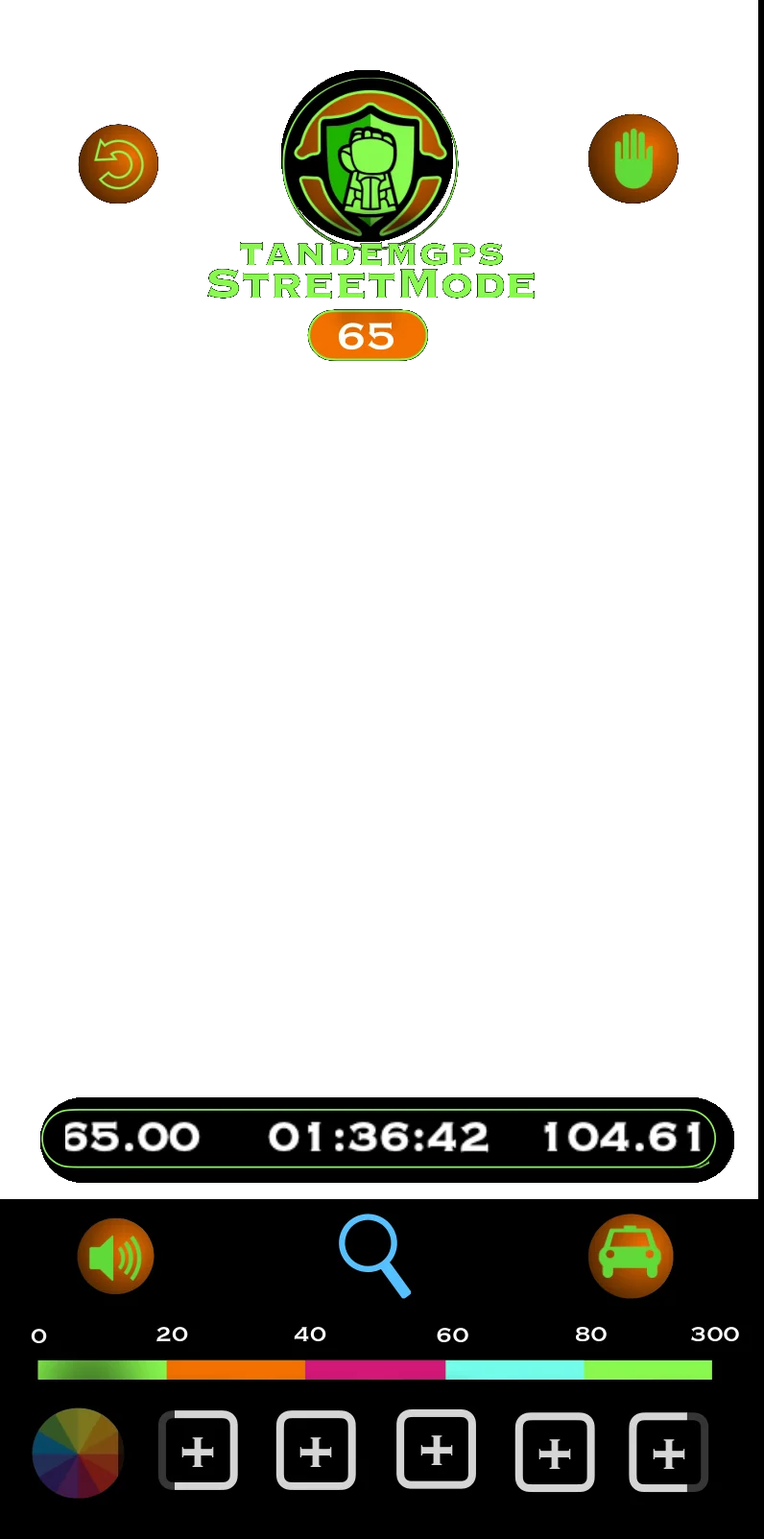
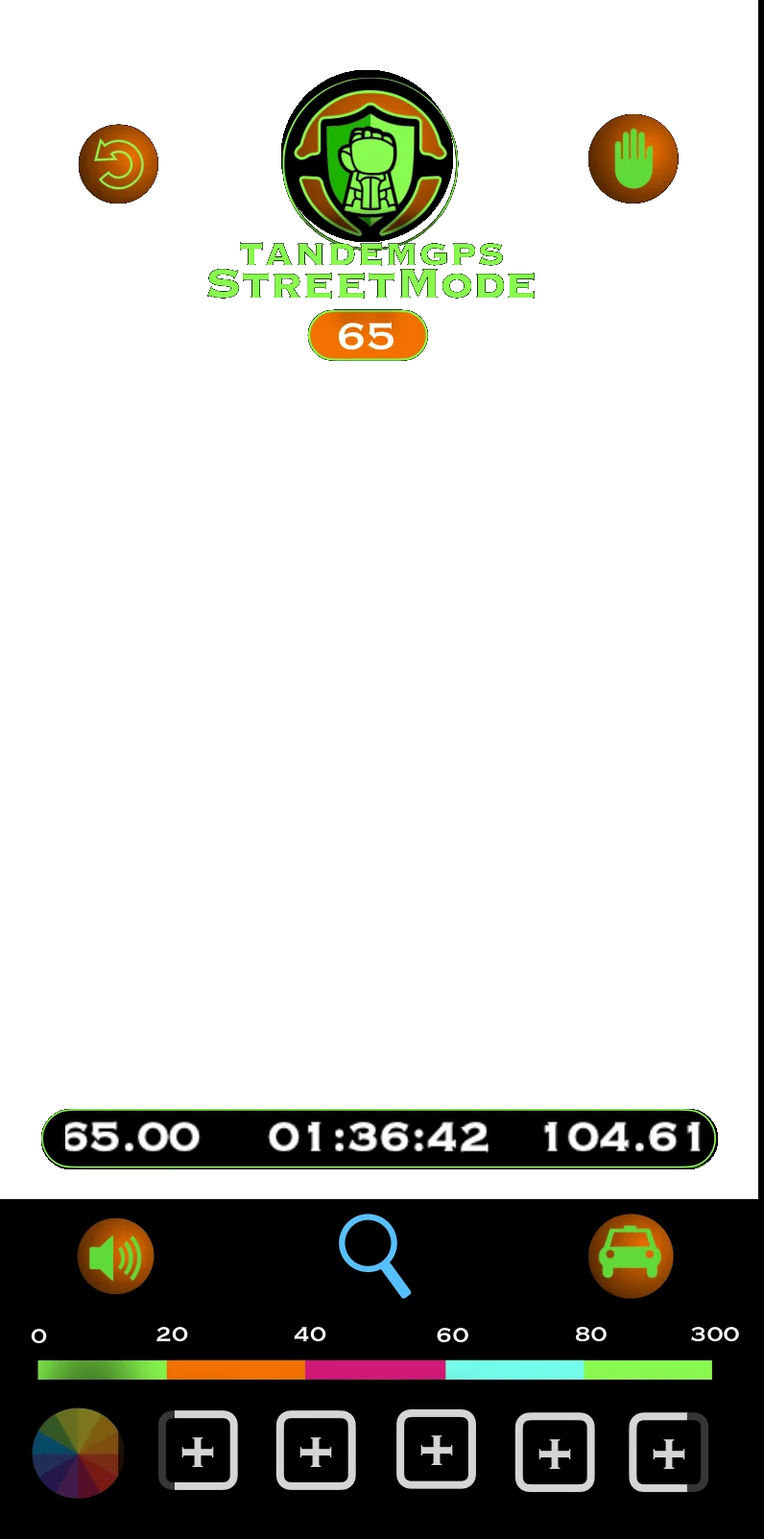
Fix speed detection when GPS reports zero speed
Fall back to distance over recent fixes, with a floor against parked-bike
jitter, and zero the speed when fixes stop. Match the mini-dash to the
ring in the art. Emulator check now walks every reachable screen.

Claude-Session: https://claude.ai/code/session_01DxvpB6HwotHwZqY6yYa5Ty

Changed region(s): [[0.0603, 0.6862, 0.9648, 0.7798]]

diff --git a/src/art.js b/src/art.js
@@ -327,6 +327,7 @@ export const MAN={
     {t:"A r o u n d  t h e  l a k e",x:90.5,y:109.3,w:207.9,h:20.2,c:"#88FA4E",s:17.0,img:require('../assets/t_maplink_motion_13.png')},
   ]},
 };
-export const MAPRECTS={"trackmode": [0.0, 196.0, 397.5, 381.0], "maplink_motion": [2.0, 193.5, 393.5, 359.5], "maplink_default": [0.0, 213.5, 398.0, 365.0], "streetmode": [0.0, 0.0, 395.0, 624.5]};
 export const CARDS=["#343434", "#2B2B2B", "#222222", "#191919", "#0F0F0F", "#464646"];
 export const LSS_GRID=[["","","","","","","","","","","","","","#141414","#161616","#151515","#181818","#181818","#191919","#1B1B1B","#1C1C1C","#1C1C1C","#1E1E1E","#1E1E1E","#1F1F1F","#1F1F1F","#212121","#222222","#222222","#232323","#252525","#262626","#262626","#282828","#292929","#292929","#2B2B2B","#2D2D2D","#2F2F2F","#303030","#323232","#343434","#363636","#373737","#3A3A3A","#3A3A3A","#3D3D3D","#3E3E3E","#3F3F3F","#414141","#424242","#444444","#464646","#464646","#484848","#494949","#4A4A4A","#4C4C4C","#4D4D4D","#15260B","#12240B","#12220A","#11210A",""],["","","","","","","#88F94E","","","","","","","","","","","#141414","#161616","#161616","#171717","#171717","#191919","#191919","#191919","#1B1B1B","#1B1B1B","#1C1C1C","#1C1C1C","#1D1D1D","#1E1E1E","#1F1F1F","#202020","#212121","#232323","#232323","#252525","#262626","#282828","#292929","#2B2B2B","#2D2D2D","#2F2F2F","#313131","#333333","#353535","#383838","#3A3A3A","#3B3B3B","#3D3D3D","#3E3E3E","#3F3F3F","#414141","#434343","#444444","#464646","#474747","#4B5048","#162A0D","#15290C","#15270B","#13240B","#12240B","#11210A"],["","","","","","#12220A","#13240B","#15270B","#15280C","#16290D","#3C7022","#52992E","#539A2F","#549A30","#539930","#52992F","#51962F","#50942E","#4F922D","#4E8E2C","#4C8B2B","#49872A","#488429","#468127","#447E27","#437C27","#427A25","#427824","#417724","#407624","#407624","#407624","#407624","#407624","#407725","#417825","#417925","#427A26","#437B25","#447D26","#468027","#478228","#498629","#4A892B","#4C8C2C","#4E8F2C","#50922D","#51952E","#52982F","#549930","#559B30","#549C31","#559D30","#468227","#213D13","#1B3210","#1A300E","#192E0D","#182D0D","#172B0D","#16290C","#15270B","#14250B","#13240B"],["","","","#11210A","#12240A","#14250B","#15270B","#16290C","#172B0D","#182D0D","#182D0C","#192F0F","#1A310F","#1B310F","#1A320F","#1C320F","#1C3310","#1B3210","#1A310F","#1B310F","#1A300E","#1A2F0F","#192F0E","#192F0D","#182D0D","#182D0E","#182D0C","#182C0E","#172C0E","#182D0E","#172D0E","#182D0E","#182D0E","#182D0E","#182D0E","#192D0E","#192D0E","#192E0E","#192F0E","#1A2F0E","#192F0F","#1A300F","#1A310F","#1B3310","#1C340E","#1D350F","#1C3610","#1D3711","#1D3711","#1E3811","#1E3711","#1E3711","#1E3711","#1C3611","#1B340F","#1B330F","#1B3210","#1B3110","#1A2F0E","#182D0D","#172B0D","#172A0D","#15280C","#14260B"],["","","#12210A","#12240B","#14250B","#15270B","#16290C","#172B0D","#172C0C","#182E0C","#1A300F","#1A310F","#1B320F","#1C330F","#1A3210","#1B3210","#1A310F","#1A310E","#19300F","#192F0F","#192D0D","#182D0C","#182D0E","#172B0E","#172A0D","#162B0D","#172A0D","#322B31","#60316B","#6F327D","#7E348F","#853186","#902971","#9E2058","#A51C4E","#58242B","#172C0D","#172C0D","#172D0D","#182D0D","#182D0D","#182E0E","#192E0E","#1A2F0E","#19300F","#1A310F","#1B3310","#1C340F","#1D350F","#1D3611","#1D3712","#1E3811","#1E3811","#1E3811","#1E3711","#1D350F","#1B340F","#1C3310","#1B3210","#1A300E","#182D0D","#172C0D","#172A0D","#16290C"],["","#12210A","#12240B","#14250B","#15270B","#16290C","#172B0D","#172C0C","#182E0D","#1A300F","#1B310F","#1A320F","#1B320E","#1B3310","#1A320F","#1A310F","#192F0E","#192E0E","#182D0D","#182C0C","#172B0C","#162A0D","#462E4B","#7A3491","#7D3494","#7D3594","#7D3593","#7D3494","#7D3593","#7E3594","#803594","#86318B","#932874","#A01F59","#A71B4F","#A71B4E","#A71C4E","#A71C4E","#A81D4F","#A71E4F","#A61E4F","#A31E4E","#182D0E","#182D0D","#182E0D","#192E0E","#1A2F0E","#1A310F","#1B3210","#1C340E","#1D360F","#1D3711","#1E3811","#1E3810","#1E3811","#1E3711","#1C360F","#1B340F","#1B330F","#1B3210","#1A300E","#192E0D","#182C0D","#172A0D"],["#12210A","#12240B","#14250B","#15280B","#172A0D","#172B0D","#172C0C","#192E0D","#1A310F","#1B320F","#1A330F","#1A3210","#1B320F","#19310F","#1A300E","#182E0F","#182D0D","#182C0C","#172B0D","#17290E","#7B378F","#7D3692","#7E3493","#7E3294","#7E3396","#803595","#803595","#7D3593","#7D3594","#7F3596","#803595","#87328B","#932873","#A11F59","#A71D4F","#A71D4F","#A71C4F","#A71D4F","#A81E4F","#A71E4F","#A81D4F","#A71E4E","#A71D4E","#A71C4E","#A61D4B","#182C0E","#182D0D","#182F0E","#1A2F0E","#1A310F","#1B3310","#1D350F","#1D3710","#1E3811","#1E3911","#1E3912","#1E3811","#1E3711","#1D350F","#1B340F","#1B3210","#1A310E","#192F0E","#182D0D"],["#12240A","#14260B","#15270B","#162A0D","#172C0D","#182D0C","#192F0D","#1A310F","#1B330F","#1C320F","#1A320E","#1A320F","#1A310F","#192F0F","#182D0E","#172C0C","#172B0D","#78348D","#7E3693","#7E3693","#7E3791","#7E3691","#7F3494","#7F3294","#7F3395","#803495","#803495","#7D3594","#7D3594","#803497","#803394","#863089","#922872","#A01F58","#A61D4E","#A61D4F","#A61B4F","#A71C4F","#A81E4F","#A81E4F","#A91E50","#A81E4E","#A81D4E","#A81C4E","#A91C4C","#A91C4C","#A71D4B","#A11E49","#182D0D","#192F0E","#1A300E","#1C320F","#1C3410","#1E360F","#1E3810","#1E3812","#1F3811","#1F3911","#1E3811","#1C3611","#1B340F","#1C3310","#1B3110","#1A2F0E"],["#13240B","#15270B","#16290C","#172C0D","#172C0C","#192F0D","#1A310F","#1A330F","#1B320E","#1B3310","#1A310F","#1A2F0E","#182E0D","#172C0D","#172B0C","#492F60","#773493","#7D3595","#7E3694","#7E3692","#7E3791","#7E3692","#7F3594","#7E3394","#7E3393","#7D3392","#7D3291","#793390","#78338F","#7A3190","#7B318E","#812E84","#8C276E","#9A1D56","#9F1A4C","#A01C4C","#A01B4C","#A01A4C","#A21D4C","#A41E4D","#A51E4E","#A61D4E","#A71D4E","#A71C4D","#A81C4E","#A91D4D","#A91C4C","#AA1C4A","#AD1C47","#BB2742","#192E0E","#19300E","#1B310F","#1B3310","#1D3611","#1F3810","#1E3912","#1F3911","#1F3A12","#1E3811","#1C360F","#1B340F","#1C3310","#1B3110"],["#15270B","#16290C","#172B0D","#172C0C","#192F0D","#1A310F","#1A330F","#1B320E","#1B3210","#1B310F","#192F0E","#192D0E","#172B0C","#172B0B","#4B2E8C","#5D2F91","#733395","#7C3495","#7E3594","#7F3593","#7D3491","#7D3491","#7C3392","#7B338F","#78308C","#752F89","#722F86","#6E2E82","#6C2E80","#6D2B81","#6E2B80","#732976","#7D2362","#891A4C","#8E1744","#8E1844","#8F1743","#901844","#921A45","#951A47","#991C48","#9C1B49","#9F1C4B","#A31C4C","#A61B4E","#A71B4E","#A81C4E","#AC1B4A","#B61D44","#D3293C","#E4322F","#182E0E","#192F0E","#1A310E","#1C330F","#1D3511","#1E3710","#1E3812","#1F3A12","#1F3A11","#1E3811","#1C360F","#1B340F","#1C3310"],["#16290C","#172B0D","#172C0C","#192E0D","#1A310F","#1A330F","#1B320E","#1B3210","#1A310F","#192F0E","#182D0E","#172B0C","#472E8C","#472C8F","#482C90","#542D92","#6A3194","#783496","#7C3394","#7E3293","#7C3090","#78308C","#742F88","#6F2E81","#6A2B7B","#652976","#602871","#5D286D","#5A266B","#5B246B","#5B246A","#5F2262","#681D51","#71153F","#761438","#761438","#771338","#781438","#7A1539","#7D163C","#83183E","#87183F","#8E1943","#951A46","#9D1B49","#A21B4B","#A51C4B","#AD1B46","#C1223F","#DE2F34","#EB332A","#EC3426","#E5362D","#192E0F","#1A310E","#1C330F","#1C3510","#1E3810","#1F3911","#1F3A12","#1F3A12","#1E3811","#1C3611","#1B340F"],["#172B0D","#172C0C","#192E0D","#1A310F","#1B330F","#1B320E","#1B3210","#1A310F","#192F0E","#182D0E","#172B0C","#452F90","#482E92","#482E92","#482E92","#4C2D91","#5F3092","#703294","#773392","#772F8E","#722D87","#6D2B7F","#652876","#5D266D","#572466","#532261","#50215E","#4D205A","#4C2059","#4C1F5A","#4D1F59","#501D52","#581844","#5F1235","#64112E","#641130","#641030","#65112F","#661130","#681232","#6B1233","#701335","#771437","#80163B","#8A1840","#951A44","#9F1B44","#AF1F40","#CB2839","#E5302C","#ED3428","#EE3425","#EF3426","#E9352A","#192F0E","#1A310E","#1B320F","#1C3610","#1E3810","#1F3911","#1F3A11","#203A12","#1E3811","#1C3611"],["#172D0D","#182E0C","#1A300F","#1B320F","#1C320F","#1B3310","#1B310F","#192F0E","#182D0E","#172B0C","#452F8D","#452E90","#482E91","#482E92","#482E92","#472C8F","#542D8D","#642F8D","#6C2F8A","#6B2D81","#632975","#5B246A","#542162","#4E1F5C","#4B1F58","#491E55","#461D54","#461D52","#451D52","#461D52","#461D52","#4A1B4C","#51173F","#581231","#5C0F2B","#5C102C","#5C0F2C","#5C102B","#5D102B","#5E102C","#5F102D","#61102E","#65112F","#6B1231","#741535","#7F1738","#921A3A","#AE2339","#CF2D33","#E73327","#EC3426","#EE3427","#EF3327","#ED3327","#EA3529","#1A2E0E","#19300E","#1B330F","#1C3610","#1F3812","#1E3912","#1F3A11","#1F3A12","#1E3811"],["#182D0C","#192F0D","#1B310F","#1A330F","#1A320E","#1A310F","#192F0E","#182D0E","#172B0C","#472E91","#482E90","#482D90","#482E90","#472E91","#462D90","#462C8E","#4B2B87","#532A81","#592979","#58266E","#532362","#4E205A","#4A1D56","#471C53","#D3CB59","#ECE550","#F4EA47","#F7EC42","#F7EA3D","#F8EA40","#F8EA3D","#F8EB3D","#EEE83F","#DCDC3E","#D4D941","#D0DA43","#CFDB43","#CEDA43","#CDDA45","#CAD849","#C7D351","#723B35","#5D102B","#5F102C","#64122D","#6E132E","#83182F","#A4222D","#C82E28","#DE3122","#E83225","#ED3226","#EF3226","#EE3226","#EE3226","#EB3326","#79321B","#1A310E","#1B340F","#1C3710","#1F3810","#1F3A12","#1F3B13","#1F3A11"],["#192F0D","#1A310F","#1A320F","#1A320E","#1A320F","#1A2F0E","#182D0E","#172B0C","#472D91","#482D91","#482D91","#482D91","#482E90","#462D90","#452D8E","#432A89","#40277E","#422471","#472265","#49215D","#481F57","#471D53","#EADF4F","#F8ED44","#FAEC3D","#FBEB3D","#F8EB3E","#F8EB3F","#F7EC3E","#F7EC3E","#F8EC3D","#FAED3D","#EEE93E","#DADE3D","#D4D940","#D1DA42","#D0DC41","#CEDD3E","#CEDC3E","#CEDB3F","#CFDB3D","#D0DA3E","#D1D947","#C4CB4F","#5E1029","#661328","#781825","#932020","#B1261C","#C92B20","#DC2F23","#E83125","#EC3125","#EE3225","#EE3226","#EF3326","#F03327","#B53325","#1B310F","#1C340F","#1D3611","#1F3910","#1F3B12","#1F3A12"],["#1A310F","#1A330F","#1A330E","#1B310F","#1A300F","#182E0E","#172C0C","#472E90","#472D91","#482D91","#482D91","#482D91","#472D8F","#452D8E","#422B88","#3D267D","#37226E","#341E61","#381C58","#3D1D54","#E2CD48","#F8EB45","#F7ED3F","#F8ED3E","#FAE93E","#FAE93D","#FBEA3E","#F9EB3F","#F6EC3E","#F6EC3E","#F8EC3D","#F9ED3D","#EEE93E","#DADE3E","#D4D940","#D1DA43","#D0DC40","#CFDE3F","#CEDC3F","#CDDB3E","#CFDB3E","#D2DA3F","#D2D93D","#D1D93F","#D0DA48","#A0B34A","#77191C","#881D18","#982018","#AD251A","#C5291F","#DB2E21","#E73124","#EC3224","#EE3326","#F03327","#F13427","#EF3427","#4C3116","#1B320E","#1C3510","#1D3811","#203910","#1F3B12"],["#1B310F","#1C320F","#1B3210","#1A300F","#192F0E","#172C0D","#462C8F","#482D91","#482E91","#482E91","#482E91","#472D90","#452C8E","#422A88","#3D267C","#35226D","#2F1E5F","#2C1B54","#BB9635","#EEBF30","#FAD92E","#FBE939","#F9EC3D","#FAEC3D","#FAE93C","#FAE93C","#FBE93D","#F8EB3D","#F6EC3D","#F6EC3E","#F7EC3D","#F9ED3D","#EEE93D","#DADE3D","#D4D940","#D1DA43","#D1DC40","#CEDD3E","#CDDB3E","#CDDA3F","#CEDA3E","#D0DA3E","#D0DA3C","#D1DB3B","#CBDB3D","#9FC549","#73A34D","#7D2419","#891C17","#952019","#AA241B","#C32B20","#D82F22","#E73223","#ED3225","#F13328","#F03426","#EF3423","#EB3427","#1A300F","#1B330F","#1D3610","#1E3911","#203A11"],["#1A320F","#1A3310","#1A310F","#192F0E","#182D0E","#472E8D","#472D91","#482D91","#492D92","#4A2E93","#492D92","#472C8F","#432A89","#3D267C","#35226C","#2E1D5F","#2A1A55","#DFB231","#F9BB1C","#FDBA1B","#F9C823","#FBE239","#F9EB3D","#FAEB3D","#FBEA3C","#FBE93C","#FBE93D","#F8EB3E","#F7EC3D","#F6EC3D","#F7EC3B","#F9ED3D","#EEE93E","#DBDE3E","#D3D940","#D1DA43","#D1DC40","#CEDE3E","#CDDB3F","#CEDA40","#CEDA3F","#D0D940","#CFD93E","#CDDB3D","#B9D543","#7AB545","#67AC46","#67AA4D","#639550","#881E18","#942118","#A8251B","#C22A1F","#D93022","#E73226","#EF3227","#F03327","#EF3326","#EE3426","#EB3227","#1B310F","#1C340F","#1E3710","#1F3A10"],["#1B320E","#1B320F","#1A300E","#182D0E","#442F89","#472F91","#482E91","#482E92","#4A2D93","#4B2E93","#4A2D91","#462B8B","#3F277F","#36236E","#2E1E5E","#291A55","#F0BF35","#F8BD1D","#FBBB1A","#FCBA1B","#FBBD1E","#FBD730","#FAE83B","#F9EC3E","#FBEA3E","#FAE83C","#FAEA3D","#F9EC3F","#F7EC3E","#F7EC3E","#F8EC3D","#F9ED3D","#EFE940","#DADE3E","#D2D93E","#D1DA3F","#D1DC3F","#D0DC3E","#CFDC3E","#CEDA40","#CFDA3F","#D0DA3F","#CEDB3E","#C5DA40","#9EC642","#6BAD48","#66AA47","#66AA46","#67AC44","#6BA252","#871E15","#942118","#AA261C","#C72C20","#DD2F24","#EC3227","#F03227","#F03327","#EF3226","#F03126","#E9352B","#1B3210","#1C3510","#1D3811"],["#1C3210","#1A310F","#192E0E","#182C0C","#452F8F","#482F92","#482F91","#492F92","#4A2E93","#492D92","#472C8D","#412883","#392373","#2F1E62","#2A1B56","#F3BA2C","#FCBB17","#FCBB19","#FCBB1B","#FCBB1B","#FABB1B","#F9C927","#FADF36","#F8EA3D","#F9EB3E","#F8EB3E","#F8EB3E","#F7EB3E","#F7EC3E","#F7EC3E","#F8EC3D","#F9ED3D","#F0E840","#DCDD3D","#D0DA3D","#D0DB3E","#D2DC3B","#D1DC3E","#CFDC3E","#CEDC3F","#CEDC3D","#D0DA3F","#CCD940","#B1D043","#7FB845","#67AE49","#68AB47","#6AAA43","#68AB44","#67AB4A","#669E50","#871E16","#962118","#B0271C","#CE2C21","#E43026","#EF3227","#F13328","#EF3227","#EF3228","#EE3226","#E3382D","#1C330F","#1D3710"],["#1B310F","#19300E","#192E0E","#45328D","#462D91","#482D92","#482E92","#482F91","#482D90","#462D8E","#432987","#3B2578","#321F66","#2B1B58","#EBB525","#FABB1B","#FBBA1B","#FCBB1B","#FCBB1B","#FCBB1B","#FABA1B","#FABF1F","#FBD32E","#F9E73B","#F6EC3E","#F6EC3E","#F6EC3C","#F6EB3D","#F7EC3E","#F6EC3E","#F7EC3D","#F9ED3D","#F0E93E","#DBDD3D","#D0DA3C","#D0DD3E","#D2DC3B","#D2DC3E","#D0DC3E","#CFDD3F","#CEDC3D","#CFDA3F","#C1D442","#96C245","#6DAF46","#68AC49","#68AB47","#68AB46","#69AA47","#67AB49","#67AD4B","#669D4D","#8B1E16","#9E2219","#BA281E","#D62D24","#E83127","#EE3227","#EE3328","#ED3327","#EC3325","#ED3526","#1B320F","#1C350F"],["#1A310F","#192F0E","#4A479A","#463F99","#463696","#473193","#472E92","#472E91","#472D8F","#452C8A","#3D277E","#34226C","#2E1C5C","#EEB732","#FBBB1A","#FBBB19","#FBBA1B","#FCBB1B","#FCBB1B","#FCBB1B","#FBBB1B","#FBBB1B","#FAC622","#FADF34","#F7EC3D","#F6EC3E","#F6EC3D","#F6EC3D","#F7EC3E","#F6EC3E","#F7EC3D","#F9ED3C","#F0E93C","#DBDD3C","#D0DA3C","#D0DC3E","#D2DC3D","#D2DC3E","#D0DC3E","#CFDC40","#CFDC3F","#CDD93F","#ADCB44","#7BB345","#68AC48","#69AB49","#69AB48","#67AB48","#69AA47","#67AC48","#67AC48","#69AB49","#699B4A","#902017","#A6241B","#C52B21","#DD2F25","#E93226","#EB3326","#EB3725","#EB3A25","#F13D28","#EA492E","#1C340F"],["#1A300F","#192E0E","#4756AE","#4652A5","#46499F","#463E9B","#463595","#452F91","#452D8E","#412984","#382474","#2F1E61","#EBB437","#FDBA19","#FEBA1A","#FEBA1B","#FCBB1A","#FCBB1A","#FCBB1B","#FCBB1B","#FCBB1B","#FBBA1A","#FABC1B","#FAD02A","#F9E63C","#F7EB3D","#F7EC3D","#F6EC3E","#F6EC3E","#F6EC3E","#F8EC3C","#F8ED3C","#EEEA3E","#DADE3D","#CEDB3D","#CFDC40","#D2DA42","#D1D941","#D0DB3F","#CFDD3F","#CEDC40","#C0D643","#8EBE46","#6DAC47","#68AA48","#6AAA48","#6AAB48","#6AAA49","#68AA49","#68AB47","#69AA46","#69A947","#6BAB48","#679747","#972118","#B0271B","#CF2D1F","#E23223","#EA3825","#EC3F26","#EE4827","#F34C2C","#F45029","#1C320F"],["#192F0E","#435AA7","#425AAF","#425AA9","#4258A7","#4450A6","#46459F","#463897","#432F8C","#3D277D","#34216A","#D0A536","#FABD23","#FCBA19","#FEBA1C","#FEBA1B","#FDBA1B","#FCBA1B","#FCBB1B","#FCBA1B","#FCBB1B","#FBBB1B","#FABB1A","#FAC221","#FCDA34","#FAE83C","#F7EB3D","#F6EC3D","#F6EC3D","#F6EC3E","#F8EC3C","#F9ED3C","#EFEA3F","#DADE3D","#CEDB3D","#CFDB3F","#D1DA41","#D1DA41","#CFDD3E","#D0DD3F","#C9DB41","#A5C844","#77B145","#67AB48","#65AA48","#66AB48","#66AB49","#66AA49","#66AB48","#67AB46","#69AA45","#68AA47","#67AC48","#6DAB4B","#8B1F16","#9F2418","#BE2D1D","#DB3823","#EB4228","#EF4B29","#F05228","#F05428","#F15327","#EF5628"],["#182E0E","#405CAB","#405BAD","#405BA9","#425BA9","#435AAB","#4655A8","#474BA1","#433C90","#3A2B78","#301F61","#F9BB24","#FCBB19","#FBBB1B","#FCBA1C","#FDBA1B","#FEB91B","#FEB91A","#FEBA1C","#FEBA1B","#FCBB1B","#FCBB19","#FCBB18","#FBBC1B","#FBCB28","#FBE237","#F9EA3C","#F7EB3D","#F7EC3D","#F7EC3E","#F8EC3C","#F9ED3D","#EFE940","#DADE3E","#CFDA3D","#CEDB3F","#D0DC40","#D0DB40","#D0DD3F","#CEDD40","#BAD343","#88B946","#6BAB47","#67AB49","#64AB48","#64AB48","#64AB48","#64AB48","#65AB48","#68AB48","#69AA47","#67AB48","#66AC48","#67AC46","#64A14C","#942416","#B0321C","#D34124","#E94B27","#F05127","#F05427","#ED5726","#EF5525","#F15425"],["#425CA5","#3E5CAB","#3F5CAB","#405CAB","#425CAB","#435BAB","#425AAB","#4256A4","#3D4993","#353777","#DF9D2F","#FCB11B","#FCB71C","#FBBB1B","#FABB1B","#F9BB1B","#FDB81B","#FEB71A","#FEB81B","#FCBA1B","#FCBB1B","#FCBB19","#FBBA18","#FBBA19","#FABD1D","#FBD42E","#FCE53B","#F9EB3E","#F7EC3E","#F7EC3E","#F8EC3D","#F9ED3E","#EFE942","#DBDD3E","#CFDA3E","#CEDD3E","#CFDC3F","#CFDB41","#CFDB42","#C4D842","#98C244","#6EAD46","#68AB48","#67AB48","#65AB48","#64AB48","#64AB48","#65AB48","#66AB48","#68AC48","#68AC48","#68AC46","#68AD49","#65A953","#4DA279","#318081","#A6341A","#C74320","#E14F24","#ED5426","#F05526","#ED5726","#F05526","#F25526"],["#415BAA","#3E5CAB","#3E5CAB","#405CAB","#425CAB","#435BAB","#425AAA","#3F55A1","#384B8F","#2E3D76","#F99A26","#FCA020","#FBA91F","#FBB41E","#FBB91D","#FCBA1A","#FBBA1A","#FCB918","#FCBA19","#FCBB1A","#FCBB1A","#FBBB18","#FABA16","#FBBA18","#FBBA19","#FBC525","#FCDC35","#FCE83C","#F8EC3D","#F8EC3D","#F8EC3C","#F9ED3E","#EFE841","#DBDD3F","#CFD93F","#CFDC40","#D0DC40","#D0DC41","#CADA45","#ADCC47","#7AB245","#68AB47","#68AB48","#68AB48","#65AB48","#64AB49","#64AB49","#65AC49","#67AC48","#68AC48","#66AD48","#62AC55","#54A670","#3A9B93","#1893B8","#128EC2","#9B3618","#BB411B","#D94C20","#EA5326","#F05526","#EE5726","#F15526","#F15526"],["#415BAB","#405CAB","#415CAB","#415CAB","#425BAB","#435BAB","#415AA9","#3D539D","#344888","#E19531","#FB9924","#FC9A23","#F99D1F","#F9A41C","#FAAD1D","#FDB61F","#FBB91C","#F9BA16","#FBBA17","#FCBA1A","#FBBA1A","#FABA16","#F9BB16","#FABB18","#FCBA1B","#FABD1B","#FBD12C","#FBE63B","#F8EC3E","#F8ED3C","#F9ED3B","#F9ED3E","#EFE841","#DBDC3E","#CFDA3F","#CEDD3F","#D0DC40","#CEDD40","#BCD645","#8EBD47","#6AAB47","#69AB48","#69AB48","#68AB48","#67AA48","#67AB48","#67AB48","#65AC47","#66AC48","#65AB50","#5AA865","#41A08B","#2995AD","#1790C3","#0E90CB","#0D90CB","#1E7DAA","#AF3D1B","#D14A20","#E75124","#EE5526","#EE5726","#F25526","#F15526"],["#4259AB","#415AAB","#415BAB","#425BAB","#425BAC","#435BAB","#4058A6","#3A5198","#314481","#F49C2B","#FB9A22","#FC9A23","#FA9921","#FA9A1F","#F99E20","#FBA620","#FCAF1E","#FCB61B","#FCB81A","#FCBA1A","#FBBA1A","#FBBA19","#F9BB17","#F9BB16","#FABA1A","#FABA19","#FAC420","#FBDB33","#F9EA3C","#F8EC3C","#F9ED3B","#F8EC3E","#EFE841","#DBDD3E","#D0DA3E","#CFDC3F","#CFDC3F","#C8DB40","#A4CA43","#76B247","#68AB49","#68AB48","#69AC49","#69AB48","#69AA48","#68AB45","#68AC46","#65AD4B","#5AAA5B","#46A280","#2B9AA4","#1A93BD","#138FC9","#1190CC","#0990CA","#0790C9","#0F8CC1","#A63A1A","#C84620","#E25023","#ED5424","#EF5525","#F15525","#F15525"],["#4259AB","#425AAD","#4259AD","#4259AD","#435BAD","#425AAA","#3F57A4","#394F94","#DA9134","#FB9A23","#FC9A22","#FC9823","#FB9820","#FC9922","#FB9A23","#FA9B20","#FCA01F","#FCA820","#FDB021","#FDB61D","#FABB18","#FBBA19","#FBBB1A","#FBBB17","#FBBA16","#FBBA17","#F9BC1A","#FCCB28","#FCE339","#F8EB3D","#F9EC3D","#F8EC3F","#F0E841","#DBDE3D","#D0DB3D","#CFDC40","#D0DC40","#B9D343","#87BA43","#6BAD49","#69AC49","#68AB46","#69AB49","#69AB48","#69AB48","#67AA48","#5EAA5B","#4AA678","#2F9B99","#1A93B7","#1390C7","#1190CC","#128FCC","#0B90CC","#0A91CB","#0991CB","#0990CB","#A0391A","#C24420","#DF4E25","#ED5424","#F05525","#F05525","#F05525"],["#425AAB","#425AAE","#4359AE","#4359AE","#435BAD","#425AAA","#4057A4","#3A4F95","#F39B32","#FC9922","#FC9721","#FC9721","#FC9721","#FC9922","#FC9A22","#FB9A21","#F99B20","#F89B20","#F9A021","#FCAC1C","#FBBA18","#FCBB1A","#FCBB1B","#FCBB1A","#FCBB18","#FBBA17","#F8BB19","#F8C21F","#F9D932","#F8E93D","#F8EC3F","#F9EB41","#F1E742","#DBDE3E","#D0DC3F","#D0DD40","#C9DB40","#9DC845","#71B047","#69AB48","#69AC49","#69AB48","#6AAB49","#6AAB47","#69AB48","#5CAA61","#3C9D91","#1E94B4","#1290C7","#0C90CC","#0F90CC","#1090CD","#0B90CD","#0691CD","#0D91CC","#1190CC","#0D91CD","#1F89BF","#C4451F","#DF4E24","#ED5324","#F15523","#F05524","#F05523"],["#425AAD","#425AAE","#425AAE","#425AAE","#435BAC","#425AAA","#4058A5","#3B529B","#F89A27","#FC9822","#FC9722","#FC9621","#FB9620","#FB9921","#FC9A20","#FC9A21","#FA9921","#FB9820","#FB9921","#FB9C20","#FBA520","#FCB220","#FDB81E","#FDB91C","#FCBA19","#FBBB18","#FBBA19","#F9BB19","#F9C824","#FBE137","#FAEA41","#FAEA41","#F1E841","#DBDE3F","#D1DB3F","#CDDD41","#B5D147","#81B748","#6AAC49","#6AAC49","#6AAC49","#6AAC49","#67AC4D","#5EAB5C","#4BA57A","#2B98A7","#1891C1","#1090CB","#0F90CC","#1190CD","#0F90CD","#1190CD","#0B91CD","#0991CD","#0C91CD","#0D91CD","#0A91D0","#128CC9","#CF481F","#E35023","#EE5424","#F15524","#F05524","#F05524"],["#425AAF","#425AAF","#425AAF","#425AAF","#435BAC","#425AAB","#4059A8","#3E56A3","#FA9A21","#FC9823","#FB9722","#FB9722","#FB9720","#FB981F","#FC9920","#FC9922","#FB9822","#FB9722","#FB9721","#FC9821","#FA9920","#F8A21D","#FAAB1E","#FDB21F","#FDB81A","#FCBA18","#FCBA1A","#FCBA18","#FABC1B","#FCD22B","#FAE73A","#F8EC40","#F0E93F","#DBDE3E","#D0DB3E","#C3D742","#97C045","#6EAD47","#68AC49","#67AC49","#67AD4B","#63AB56","#50A673","#379E95","#1F94B3","#1390C8","#108FCC","#108FCC","#108FCC","#1190CC","#1090CC","#0990CC","#0791CB","#0692CC","#0E91CC","#0E91CD","#0891CF","#0D8DCE","#E04E22","#E95223","#EE5424","#F25526","#F05525","#F05525"],["#425AAE","#4159AC","#4259AC","#435AAD","#435BAC","#435BAC","#425AAA","#D1904D","#FA9920","#F99A23","#FB9922","#FB9721","#FA9620","#FA961F","#FB961F","#FB9621","#FB9721","#FB9721","#FB9721","#FB9720","#FB9720","#F99A20","#F99C21","#FAA320","#FAAD1D","#FDB31C","#FDB61C","#FDB818","#FBB919","#F7C71F","#FADF32","#FAEB3B","#EFE93D","#D9DE3D","#CDD941","#AEC945","#7AB045","#6AAB46","#68AA46","#65AB4F","#57A767","#3F9F8C","#2296AF","#1591C2","#0F90CA","#0F90CC","#1290CD","#1090CC","#1090CC","#1190CC","#0C8FCB","#058FCB","#0490C8","#0591C9","#0E91CC","#0E91CD","#0891CD","#0E8DCE","#EB5324","#ED5323","#EE5322","#F05424","#EF5424","#EF5424"],["#3D55A4","#384D92","#3B5199","#4159A8","#435BAB","#435BAC","#435BAC","#EB9735","#FB9921","#FA9A23","#FB9923","#F49221","#DA831C","#D5801B","#D57F1B","#DC841D","#F69420","#FB9721","#FB9721","#FB9622","#FB9621","#FA9721","#FA9721","#FA9920","#F3981D","#DB8D1B","#DA9519","#D89B17","#ECAD17","#F8BC1A","#FBD129","#FBE538","#EFE93D","#D8DE3E","#BED543","#8DBD47","#6AAA47","#5E9C46","#4D8E50","#3A8B74","#207F94","#1287B7","#0E90CA","#0F90CB","#1090CC","#118FCC","#128FCC","#1190CC","#1190CC","#108DC8","#0C7CB0","#0777A8","#0A7CAD","#0C7DB0","#108BC4","#1191CD","#0E91CD","#0F8ECE","#ED5424","#D74C21","#C9471D","#CF491E","#CB481F","#D04820"]];
+export const MAPRECTS={"trackmode": [0.0, 196.0, 397.5, 381.0], "maplink_motion": [2.0, 193.5, 393.5, 359.5], "maplink_default": [0.0, 213.5, 398.0, 365.0], "streetmode": [0.0, 0.0, 395.0, 624.5]};
+export const DASHRINGS={"trackmode": [24.0, 565.5, 350.5, 30.5], "maplink_motion": [53.0, 542.5, 299.5, 26.5], "maplink_default": [49.5, 565.0, 300.0, 26.0], "streetmode": [21.5, 577.5, 352.0, 31.0]};

diff --git a/src/App.js b/src/App.js
@@ -3,8 +3,8 @@ import {View,Image,Pressable,Text,TextInput,ScrollView,StatusBar,BackHandler,Lin
 import AsyncStorage from '@react-native-async-storage/async-storage';
 import Geolocation from '@react-native-community/geolocation';
 import MapLibreGL from '@maplibre/maplibre-react-native';
-import {ART,MAN,MAPRECTS,CARDS,LSS_GRID} from './art';
-import {bandOf,barFraction,bearing,distance,fmtTime,nextMotion,styleForApp,DEF,RB,MPH_PER_MS,KPH_PER_MPH} from './logic';
+import {ART,MAN,MAPRECTS,DASHRINGS,CARDS,LSS_GRID} from './art';
+import {addFix,bandOf,barFraction,bearing,distance,fixSpeed,fmtTime,nextMotion,styleForApp,DEF,RB,MPH_PER_MS,KPH_PER_MPH} from './logic';
 
 const GEO={
  trackmode:{bar:[26.7,685.7,351.3,10],pill:[170,158,60,24],dash:[15,555,376,52],row:{x:78,y:713,step:64},scaleY:663,pillTxt:'#FFFFFF'},
@@ -22,7 +22,7 @@ const M0=[{n:'BILLY BOB',a:'Member since October 2025',b:'12 Members',av:0},{n:'
 const st={screen:'profile',hist:[],rides:SEED_RIDES,pinned:SEED_PINS,active:SEED_PINS[1],mode:'trackmode',speed:0,target:0,top:0,dur:0,started:false,moving:false,paused:false,lowT:0,
  sel:null,groups:G0,gSel:0,members:M0,mSel:null,pick:{},stats:{'date created':1,distance:1,'top speed':1,participant:1,'team tag':1},comment:'',prev:null,
  lssColor:null,entry:'',draft:[],lssName:'',lssEdit:null,cgName:'',cgMood:'',cgEmail:'',cgShow:'tony@tandemgps.com',cgAdded:0,inbox:0,
- lng:null,lat:null,tlng:null,tlat:null,brg:0,trail:[],prevFix:null};
+ lng:null,lat:null,tlng:null,tlat:null,brg:0,trail:[],prevFix:null,fixes:[],lastFix:0};
 const toast=m=>Platform.OS==='android'&&ToastAndroid.show(m,ToastAndroid.SHORT);
 const missing=n=>toast(n+' screen is not in the guide yet');
 const web=()=>Linking.openURL('https://tandemgps.com/theportal');
@@ -47,15 +47,14 @@ export default function App(){
   (async()=>{let ok=true;if(Platform.OS==='android'){const r=await PermissionsAndroid.request(PermissionsAndroid.PERMISSIONS.ACCESS_FINE_LOCATION);ok=r===PermissionsAndroid.RESULTS.GRANTED}
    if(!ok){toast('TandemGPS needs location for the speedometer');return}if(dead)return;
    Geolocation.setRNConfiguration({skipPermissionRequests:true,locationProvider:'android'});
-   watch=Geolocation.watchPosition(p=>{const c=p.coords,pv=st.prevFix;let v=c.speed;const here=[c.longitude,c.latitude];
-     if((v==null||v<0)&&pv){const dt=(p.timestamp-pv.t)/1000;v=dt>0?distance([pv.lon,pv.lat],here)/dt:0}
+   watch=Geolocation.watchPosition(p=>{const c=p.coords,pv=st.prevFix,here=[c.longitude,c.latitude];st.fixes=addFix(st.fixes,{t:p.timestamp,p:here,acc:c.accuracy});const v=fixSpeed(c.speed,st.fixes);st.lastFix=Date.now();
      if(pv&&distance([pv.lon,pv.lat],here)>3){st.tb=c.heading!=null&&c.heading>=0&&(v||0)>1?c.heading:bearing([pv.lon,pv.lat],here);st.trail=st.trail.concat([here]).slice(-1500)}
      if(st.lng==null){st.lng=c.longitude;st.lat=c.latitude;st.trail=[here];rerender()}
      st.tlng=c.longitude;st.tlat=c.latitude;st.prevFix={lat:c.latitude,lon:c.longitude,t:p.timestamp};st.target=Math.max(0,(v||0)*MPH_PER_MS)},
     ()=>{},{enableHighAccuracy:true,distanceFilter:0,interval:1000,fastestInterval:500,maximumAge:1000})})();
   return()=>{dead=true;if(watch!=null)Geolocation.clearWatch(watch)}},[]);
 
- useEffect(()=>{const id=setInterval(()=>{const dt=.1;st.speed+=(st.target-st.speed)*Math.min(1,dt*3);if(st.speed<.05&&st.target===0)st.speed=0;
+ useEffect(()=>{const id=setInterval(()=>{const dt=.1;if(st.lastFix&&Date.now()-st.lastFix>4000)st.target=0;st.speed+=(st.target-st.speed)*Math.min(1,dt*3);if(st.speed<.05&&st.target===0)st.speed=0;
    const was=st.moving,m=nextMotion(st.speed,st.paused,was,st.lowT,Date.now());st.moving=m.moving;st.lowT=m.lowT;
    if(st.moving&&!st.paused){if(!st.started){st.started=true;st.top=0;st.dur=0}st.dur+=dt;if(st.speed>st.top)st.top=st.speed}
    if(was!==st.moving){if(st.moving&&LOCK[st.screen]){st.hist=[];st.screen=st.mode}
@@ -107,12 +106,12 @@ function Speedo({c,s}){const {k}=c,g=GEO[s],[,tick]=useState(0);const glow=useRe
  useEffect(()=>{const id=setInterval(()=>tick(v=>v+1),200);return()=>clearInterval(id)},[]);
  const r=st.active,bds=r.bands,n=bds.length,custom=JSON.stringify(bds)!==JSON.stringify(DEF),i=bandOf(st.speed,bds),col=bds[i].c,on=st.moving&&!st.paused;
  useEffect(()=>{Animated.timing(glow,{toValue:on?1:0,duration:300,useNativeDriver:true}).start()},[on]);
- const [bx,by,bw,bh]=g.bar,fx=barFraction(st.speed,bds,custom?null:RB),[dx,dy,dw,dh]=g.dash,over=st.speed>POSTED_LIMIT,[px,py,pw,ph]=g.pill,fs=(15.5*dw/376+2)*k;
+ const [bx,by,bw,bh]=g.bar,fx=barFraction(st.speed,bds,custom?null:RB),[dx,dy,dw,dh]=DASHRINGS[s],over=st.speed>POSTED_LIMIT,[px,py,pw,ph]=g.pill,fs=(15.5*dw/360+1)*k;
  const dg={position:'absolute',top:0,bottom:0,textAlign:'center',textAlignVertical:'center',color:'#fff',fontWeight:'700',fontSize:fs,fontVariant:['tabular-nums']};
  return <>{custom&&<><Cov k={k} x={bx-16} y={g.scaleY-2} w={bw+40} h={by-g.scaleY+bh+4}/><Bar k={k} x={bx} y={by} w={bw} h={bh} bands={bds}/><Digits k={k} t="0" cx={bx+2} y={g.scaleY} h={17} c={s==='maplink_default'?'#88FA4E':'#FFFFFF'}/>{bds.map((bd,j)=><Digits key={j} k={k} t={bd.to} cx={bx+bw*(j+1)/n} y={g.scaleY} h={17} c={s==='maplink_default'?'#88FA4E':'#FFFFFF'}/>)}</>}
   {on&&<Cov k={k} x={bx+bw*fx} y={by} w={bw*(1-fx)} h={bh} c="rgba(0,0,0,.78)"/>}
   <View pointerEvents="none" style={[b(k,px,py,pw,ph),{borderRadius:12*k,backgroundColor:over?'#F27100':'#1CB000'}]}><Spr k={k} sp={spanOf(s,'65')} c={g.pillTxt} x={(pw-34.8)/2} y={-2.6}/></View>
-  {st.started&&<View pointerEvents="none" style={[b(k,dx+dw*.02,dy+dh*.03,dw*.96,dh*.95),{backgroundColor:'#000',borderWidth:1.3,borderColor:'#88FA4E',borderRadius:dh*k}]}>
+  {st.started&&<View pointerEvents="none" style={[b(k,dx,dy,dw,dh),{backgroundColor:'#000',borderWidth:1.3,borderColor:'#88FA4E',borderRadius:dh*k}]}>
    <Text style={[dg,{left:'2%',width:'28%'}]}>{st.top.toFixed(2)}</Text><Text style={[dg,{left:'34%',width:'32%'}]}>{fmtTime(st.dur)}</Text><Text style={[dg,{left:'70%',width:'28%'}]}>{(st.top*KPH_PER_MPH).toFixed(2)}</Text></View>}
   <Animated.Image source={ART.lss_glow} fadeDuration={0} pointerEvents="none" style={{position:'absolute',left:0,top:0,width:'100%',height:'100%',tintColor:col,opacity:glow,zIndex:9}} resizeMode="stretch"/></>}
 

diff --git a/__tests__/logic.test.js b/__tests__/logic.test.js
@@ -1,6 +1,9 @@
-import {bandOf,barFraction,bearing,distance,fmtTime,nextMotion,styleForApp,DEF,RB} from '../src/logic';
+import {addFix,fixSpeed,bandOf,barFraction,bearing,distance,fmtTime,nextMotion,styleForApp,DEF,RB} from '../src/logic';
 test('speed picks the right RangeBar band',()=>{expect(bandOf(0,DEF)).toBe(0);expect(bandOf(30,DEF)).toBe(1);expect(bandOf(72,DEF)).toBe(3);expect(bandOf(120,DEF)).toBe(4);expect(bandOf(999,DEF)).toBe(4)});
 test('bar fill rises with speed',()=>{expect(barFraction(0,DEF,RB)).toBe(0);expect(barFraction(20,DEF,RB)).toBeCloseTo(.192);expect(barFraction(300,DEF,RB)).toBeCloseTo(1);expect(barFraction(70,DEF,RB)).toBeGreaterThan(barFraction(50,DEF,RB))});
 test('motion needs 5 mph, holds 2.5s, respects pause',()=>{expect(nextMotion(4,false,false,0,1000).moving).toBe(false);expect(nextMotion(6,false,false,0,1000).moving).toBe(true);expect(nextMotion(1,false,true,1000,2000).moving).toBe(true);expect(nextMotion(1,false,true,1000,4000).moving).toBe(false);expect(nextMotion(60,true,false,0,1000).moving).toBe(false)});
 test('time and geometry',()=>{expect(fmtTime(5802)).toBe('01:36:42');expect(distance([0,40],[0,40.00027])).toBeCloseTo(30,0);expect(Math.round(bearing([0,0],[0,1]))).toBe(0);expect(Math.round(bearing([0,0],[1,0]))).toBe(90)});
 test('map style keeps art colors',()=>{const s=styleForApp({layers:[{id:'bg',type:'background'},{id:'water',type:'fill'},{id:'b',type:'fill-extrusion'},{id:'road',type:'line'}]});expect(s.layers.length).toBe(3);expect(s.layers[0].paint['background-color']).toBe('#3a3a3a')});
+test('speed falls back to distance when the provider reports 0',()=>{const a={t:0,p:[0,40],acc:5},b={t:1000,p:[0,40.00027],acc:5};expect(fixSpeed(0,[a,b])).toBeCloseTo(30,0);expect(fixSpeed(12,[a,b])).toBe(12);expect(fixSpeed(null,[a])).toBe(0)});
+test('GPS jitter on a parked bike stays at zero',()=>{const a={t:0,p:[0,40],acc:5},b={t:1000,p:[0,40.00005],acc:5};expect(fixSpeed(0,[a,b])).toBe(0);expect(fixSpeed(0,[{...a,acc:50},{...b,p:[0,40.0002],acc:50}])).toBe(0)});
+test('old fixes drop out of the speed window',()=>{let l=[];l=addFix(l,{t:0});l=addFix(l,{t:3000});l=addFix(l,{t:6000});expect(l.map(f=>f.t)).toEqual([3000,6000])});

diff --git a/src/logic.js b/src/logic.js
@@ -14,3 +14,7 @@ export function styleForApp(style){const layers=[];(style.layers||[]).forEach(l=
  else if(l.type==='line')o.paint['line-color']=id.includes('water')?'#262a2d':'#555555';
  else if(l.type==='symbol'&&l.layout&&l.layout['text-field']){o.paint['text-color']='#c4c4c4';o.paint['text-halo-color']='#222222';o.paint['text-halo-width']=1}
  layers.push(o)});return{...style,layers}}
+export function addFix(list,fix,windowMs=5000){return list.concat([fix]).filter(f=>fix.t-f.t<=windowMs)}
+/* Speed in m/s. Many providers report 0 when they have no speed, so distance over recent fixes
+   is the fallback. The floor stops GPS jitter on a parked bike from reading as motion. */
+export function fixSpeed(reported,fixes){if(reported!=null&&reported>0.5)return reported;const a=fixes[0],z=fixes[fixes.length-1];if(!a||a===z)return 0;const dt=(z.t-a.t)/1000;if(dt<=0)return 0;const d=distance(a.p,z.p);return d>Math.max(10,z.acc||0)?d/dt:0}
